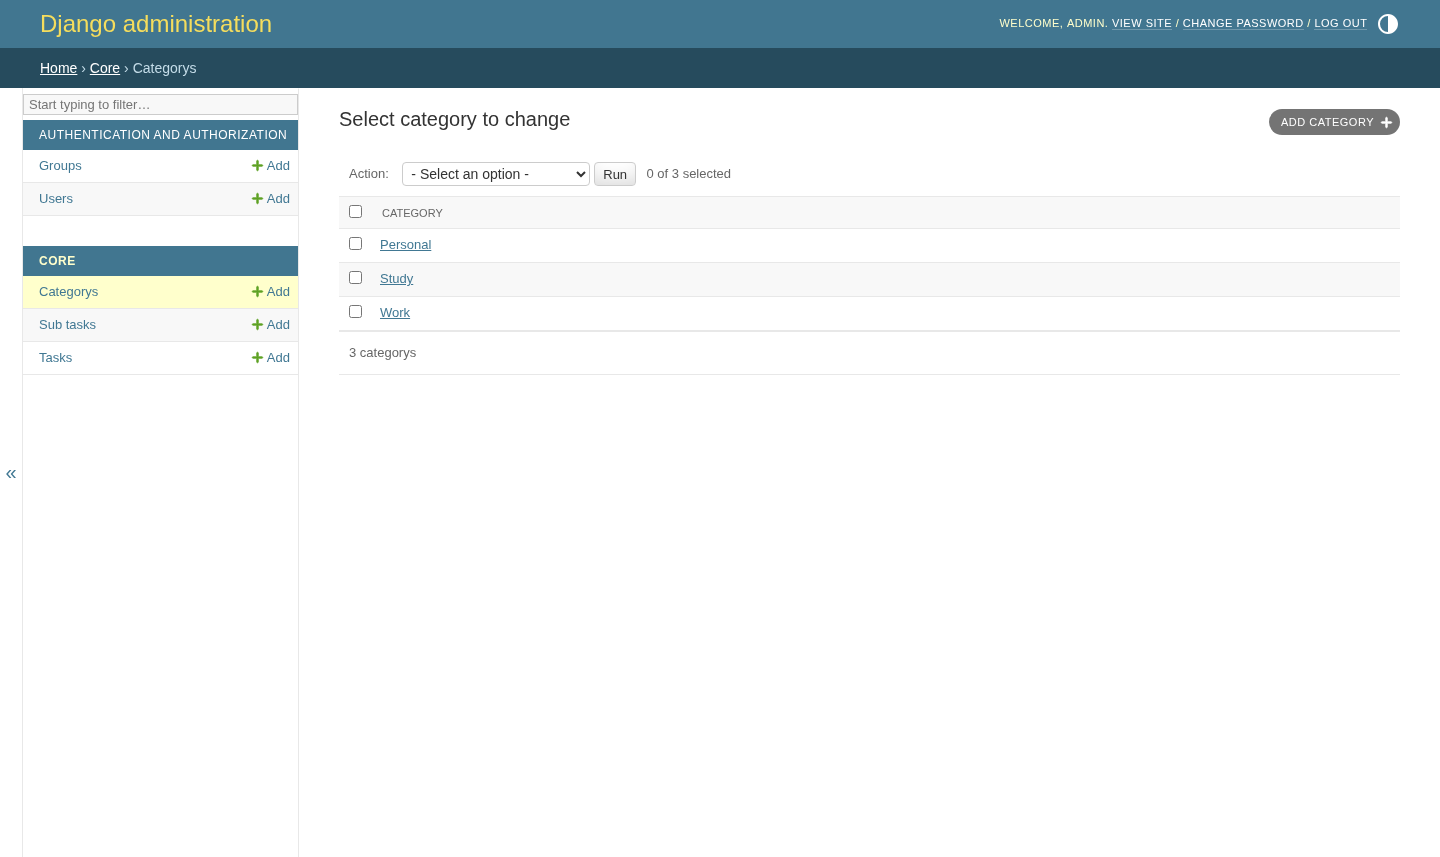
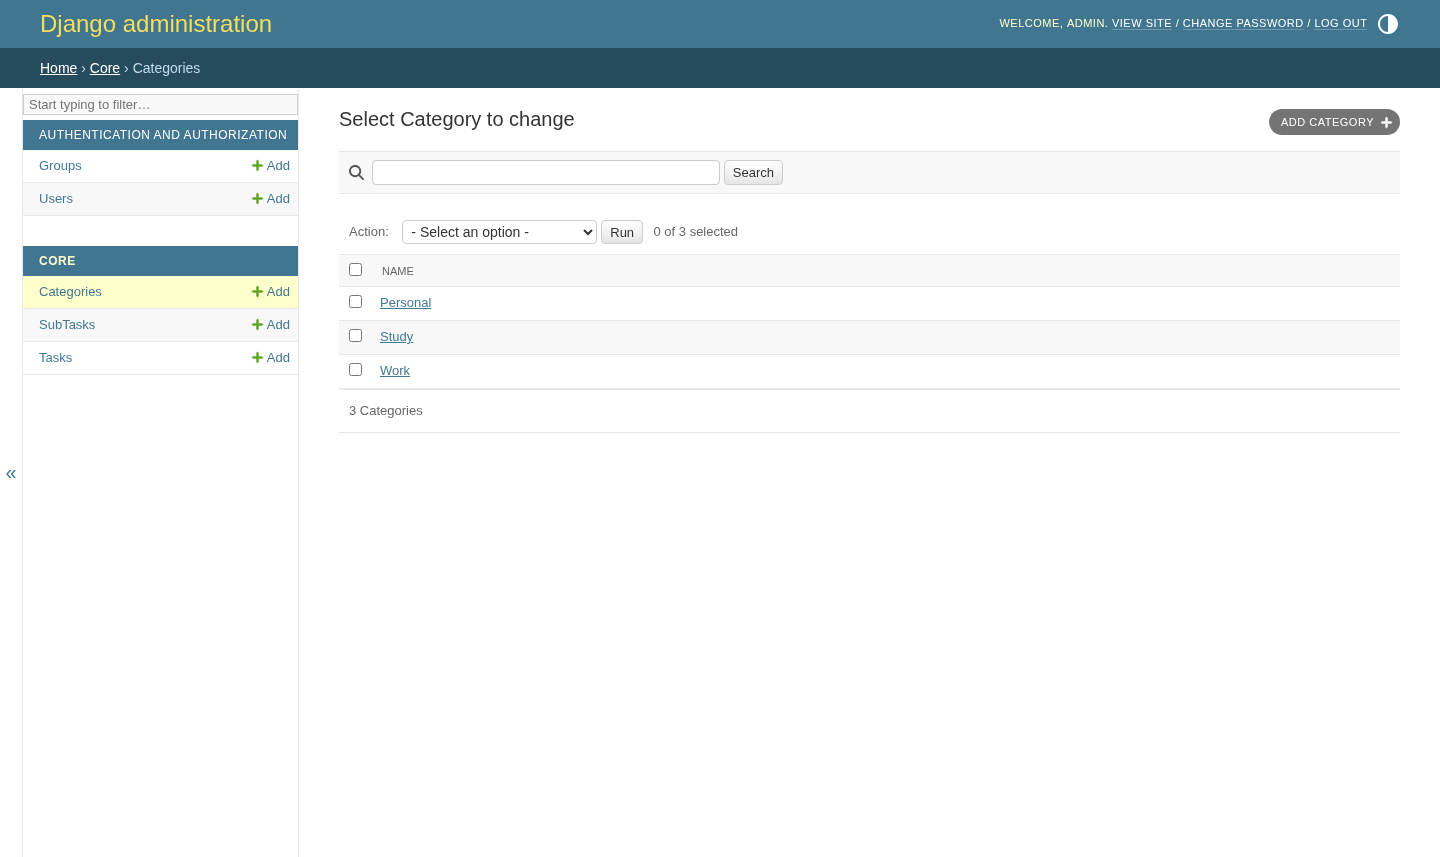
Refactor task manager models and admin

diff --git a/core/migrations/0002_alter_category_options_alter_subtask_options_and_more.py b/core/migrations/0002_alter_category_options_alter_subtask_options_and_more.py
@@ -1,0 +1,83 @@
+# Generated by Django 6.1.1 on 2026-10-03 16:20
+
+import uuid
+from django.db import migrations, models
+
+
+class Migration(migrations.Migration):
+
+    dependencies = [
+        ('core', '0001_initial'),
+    ]
+
+    operations = [
+        migrations.AlterModelOptions(
+            name='category',
+            options={'verbose_name': 'Category', 'verbose_name_plural': 'Categories'},
+        ),
+        migrations.AlterModelOptions(
+            name='subtask',
+            options={'ordering': ['-created_at'], 'verbose_name': 'SubTask', 'verbose_name_plural': 'SubTasks'},
+        ),
+        migrations.AlterModelOptions(
+            name='task',
+            options={'ordering': ['-created_at'], 'verbose_name': 'Task', 'verbose_name_plural': 'Tasks'},
+        ),
+        migrations.AddField(
+            model_name='subtask',
+            name='deleted_at',
+            field=models.DateTimeField(blank=True, null=True),
+        ),
+        migrations.AddField(
+            model_name='subtask',
+            name='updated_at',
+            field=models.DateTimeField(auto_now=True),
+        ),
+        migrations.AddField(
+            model_name='task',
+            name='deleted_at',
+            field=models.DateTimeField(blank=True, null=True),
+        ),
+        migrations.AddField(
+            model_name='task',
+            name='updated_at',
+            field=models.DateTimeField(auto_now=True),
+        ),
+        migrations.AlterField(
+            model_name='category',
+            name='id',
+            field=models.UUIDField(default=uuid.uuid7, editable=False, primary_key=True, serialize=False),
+        ),
+        migrations.AlterField(
+            model_name='subtask',
+            name='id',
+            field=models.UUIDField(default=uuid.uuid7, editable=False, primary_key=True, serialize=False),
+        ),
+        migrations.AlterField(
+            model_name='subtask',
+            name='title',
+            field=models.CharField(max_length=255, unique=True),
+        ),
+        migrations.AlterField(
+            model_name='task',
+            name='id',
+            field=models.UUIDField(default=uuid.uuid7, editable=False, primary_key=True, serialize=False),
+        ),
+        migrations.AlterField(
+            model_name='task',
+            name='title',
+            field=models.CharField(max_length=255, unique=True),
+        ),
+        migrations.AlterModelTable(
+            name='category',
+            table='task_manager_category',
+        ),
+        migrations.AlterModelTable(
+            name='subtask',
+            table='task_manager_subtask',
+        ),
+        migrations.AlterModelTable(
+            name='task',
+            table='task_manager_task',
+        ),
+    ]

diff --git a/core/models/task.py b/core/models/task.py
@@ -1,0 +1,27 @@
+from django.db import models
+
+from .base import TimeStampedModel, UUIDv7Model
+
+
+class Task(UUIDv7Model, TimeStampedModel):
+    class Status(models.TextChoices):
+        NEW = "new", "New"
+        IN_PROGRESS = "in_progress", "In progress"
+        PENDING = "pending", "Pending"
+        BLOCKED = "blocked", "Blocked"
+        DONE = "done", "Done"
+
+    title = models.CharField(max_length=255, unique=True)
+    description = models.TextField()
+    categories = models.ManyToManyField("Category", blank=True)
+    status = models.CharField(max_length=20, choices=Status.choices, default=Status.NEW)
+    deadline = models.DateTimeField()
+
+    class Meta:
+        db_table = "task_manager_task"
+        ordering = ["-created_at"]
+        verbose_name = "Task"
+        verbose_name_plural = "Tasks"
+
+    def __str__(self):
+        return self.title

diff --git a/core/admin.py b/core/admin.py
@@ -2,6 +2,22 @@ from django.contrib import admin
 
 from .models import Category, SubTask, Task
 
-admin.site.register(Category)
-admin.site.register(Task)
-admin.site.register(SubTask)
+
+@admin.register(Category)
+class CategoryAdmin(admin.ModelAdmin):
+    list_display = ("name",)
+    search_fields = ("name",)
+
+
+@admin.register(Task)
+class TaskAdmin(admin.ModelAdmin):
+    list_display = ("title", "status", "deadline", "created_at")
+    list_filter = ("status", "categories")
+    search_fields = ("title",)
+
+
+@admin.register(SubTask)
+class SubTaskAdmin(admin.ModelAdmin):
+    list_display = ("title", "task", "status", "deadline", "created_at")
+    list_filter = ("status",)
+    search_fields = ("title",)

diff --git a/core/models/subtask.py b/core/models/subtask.py
@@ -1,0 +1,21 @@
+from django.db import models
+
+from .base import TimeStampedModel, UUIDv7Model
+from .task import Task
+
+
+class SubTask(UUIDv7Model, TimeStampedModel):
+    title = models.CharField(max_length=255, unique=True)
+    description = models.TextField()
+    task = models.ForeignKey(Task, on_delete=models.CASCADE, related_name="subtasks")
+    status = models.CharField(max_length=20, choices=Task.Status.choices, default=Task.Status.NEW)
+    deadline = models.DateTimeField()
+
+    class Meta:
+        db_table = "task_manager_subtask"
+        ordering = ["-created_at"]
+        verbose_name = "SubTask"
+        verbose_name_plural = "SubTasks"
+
+    def __str__(self):
+        return self.title

diff --git a/core/models/base.py b/core/models/base.py
@@ -1,0 +1,19 @@
+import uuid
+
+from django.db import models
+
+
+class UUIDv7Model(models.Model):
+    id = models.UUIDField(primary_key=True, default=uuid.uuid7, editable=False)
+
+    class Meta:
+        abstract = True
+
+
+class TimeStampedModel(models.Model):
+    created_at = models.DateTimeField(auto_now_add=True)
+    updated_at = models.DateTimeField(auto_now=True)
+    deleted_at = models.DateTimeField(null=True, blank=True)
+
+    class Meta:
+        abstract = True

diff --git a/core/models/category.py b/core/models/category.py
@@ -1,0 +1,15 @@
+from django.db import models
+
+from .base import UUIDv7Model
+
+
+class Category(UUIDv7Model):
+    name = models.CharField(max_length=100, unique=True)
+
+    class Meta:
+        db_table = "task_manager_category"
+        verbose_name = "Category"
+        verbose_name_plural = "Categories"
+
+    def __str__(self):
+        return self.name

diff --git a/config/settings.py b/config/settings.py
@@ -33,7 +33,7 @@ SECRET_KEY = env('SECRET_KEY', default='dev-secret-key')
 # SECURITY WARNING: don't run with debug turned on in production!
 DEBUG = env('DEBUG', default=True)
 
-ALLOWED_HOSTS = env('ALLOWED_HOSTS', default=[])
+ALLOWED_HOSTS = env('ALLOWED_HOSTS', default=['127.0.0.1', 'localhost', 'testserver'])
 
 
 # Application definition

diff --git a/core/tests.py b/core/tests.py
@@ -9,4 +9,4 @@ class HelloViewTests(SimpleTestCase):
         response = self.client.get('/hello/Alice/', HTTP_HOST='127.0.0.1')
 
         self.assertEqual(response.status_code, 200)
-        self.assertEqual(response.content.decode(), 'Hello, Alice')
+        self.assertEqual(response.content.decode(), 'Hello, Alice!')

diff --git a/core/models/__init__.py b/core/models/__init__.py
@@ -1,0 +1,5 @@
+from .category import Category
+from .subtask import SubTask
+from .task import Task
+
+__all__ = ("Category", "Task", "SubTask")
